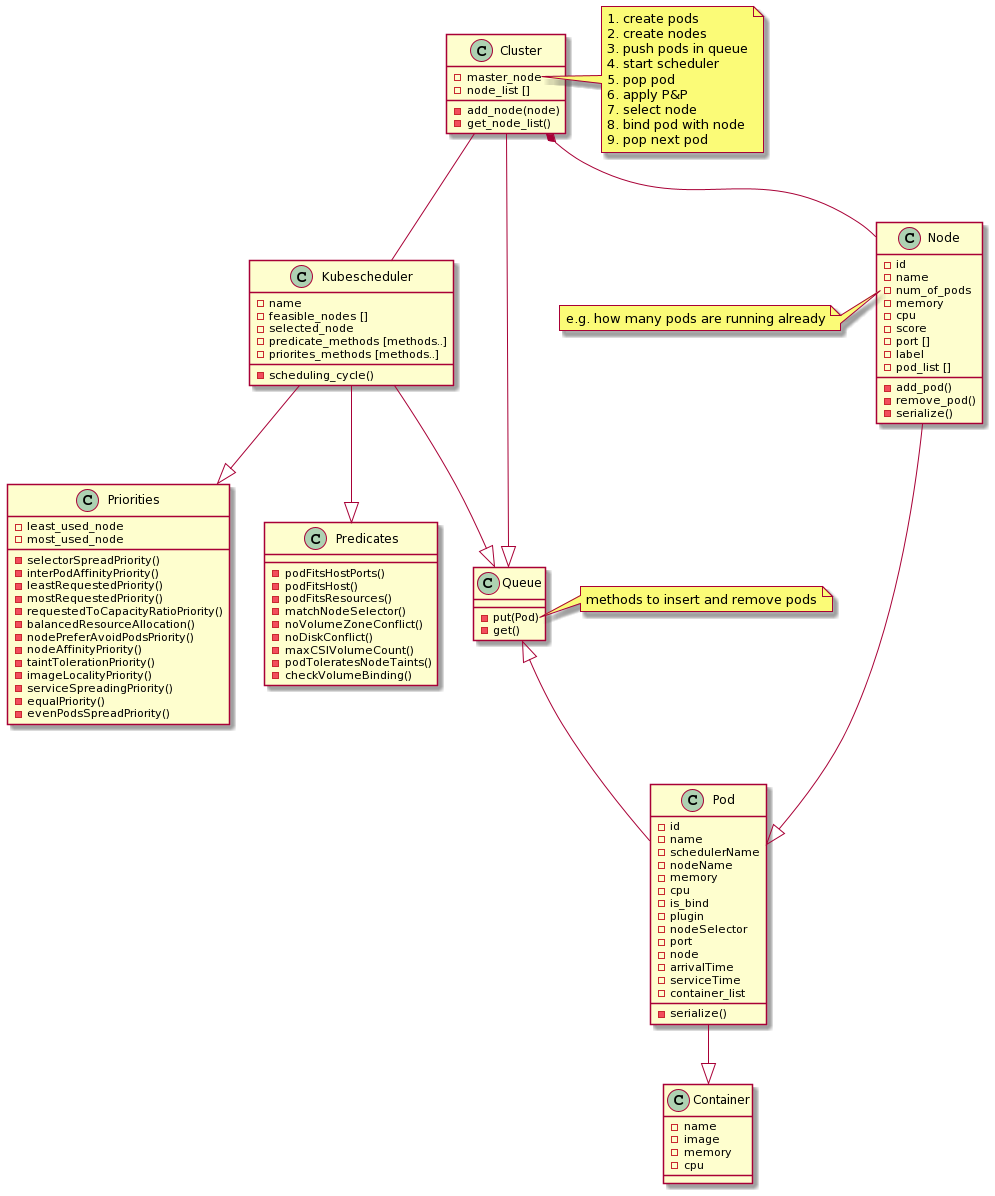
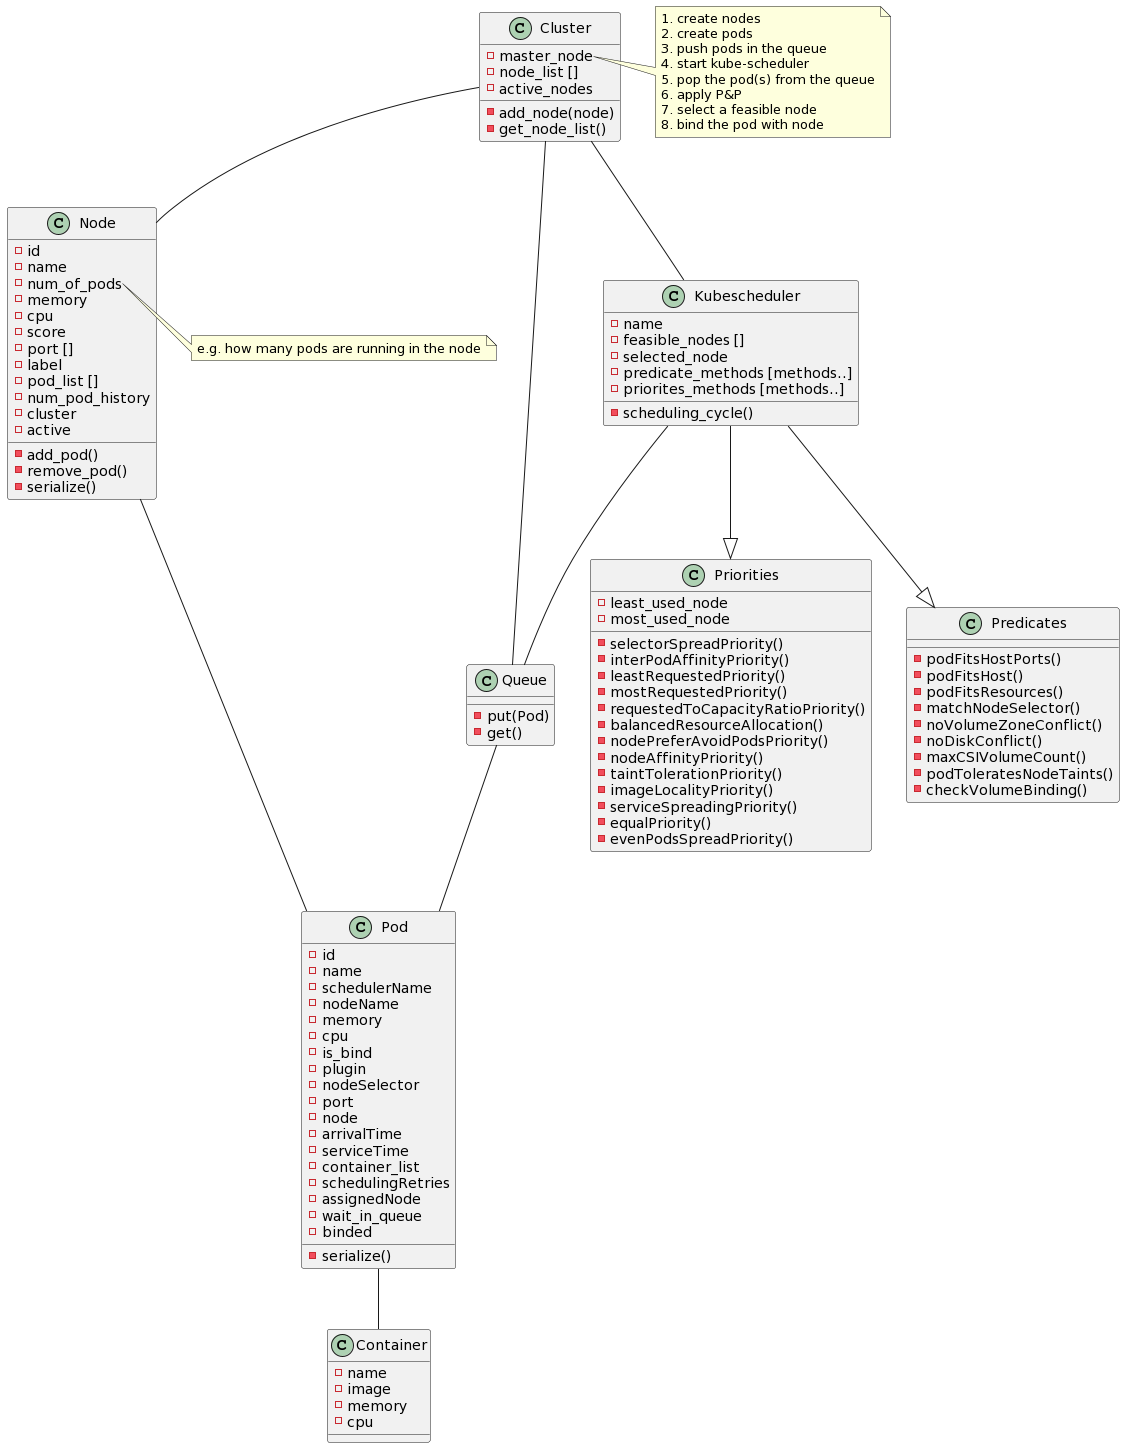
update architecture image

diff --git a/README.md b/README.md
@@ -19,9 +19,9 @@ A thesis project of *University of Pisa* and *CNR-ISTI*.
 |------------------|-------------------------------|
 |Usman Shahzad     |u.shahzad1@studenti.unipi.it   |
 
-<!-- ## Architecture
+## Architecture
 
-![image description](images/architecture.png) -->
+![image description](images/architecture.png)
 
 ## Instructions
 
